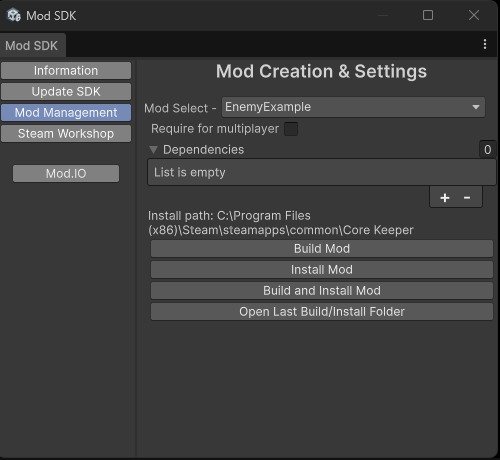
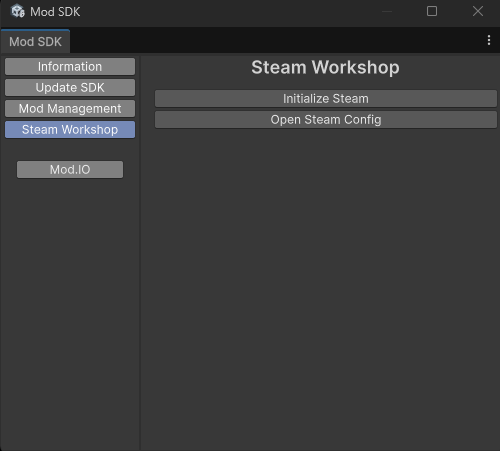
GITBOOK-35: No subject

diff --git a/modding-documentation/creating-mods/creating-a-mod/creating-mods-via-scriptable-data.md b/modding-documentation/creating-mods/creating-a-mod/creating-mods-via-scriptable-data.md
@@ -32,7 +32,7 @@ If your mod is older then you can simply do this by heading over to your mods' f
 
 Open up the Scriptable Data Editor Window by going to Window -> Scriptable Data Editor <mark style="color:red;">**(it could be nice QoL for modders to have all the windows they need to work with under the PugMod window)**</mark> once it's open you'll see a dropdown for ScriptableDataBlock types, these types are retrieved from the assemblies that are imported into the ModSDK during the "Updating Game Files" step. Once you've picked a ScriptableDataBlock which you think would be fun to mod you can right click it on the left-hand side in the Scriptable Data Editor Window and click Overload to -> \<YourScriptableDataDirectoryConfig>.&#x20;
 
-<figure><img src="../../.gitbook/assets/image (1).png" alt=""><figcaption></figcaption></figure>
+<figure><img src="../../.gitbook/assets/image (4).png" alt=""><figcaption></figcaption></figure>
 
 Make sure the config is located in the right mod folder for which you want to build this Scriptable Data mod!
 {% endstep %}
@@ -46,7 +46,7 @@ ScriptableDataBlocks can be edited in the inspector by selecting the instance of
 
 Simply make the changes that you'd like to make to the ScriptableDataBlock and then build the mod. The easiest way to test that you've set up everything correctly and that the Scriptable Data Block mods will work is to assign a new Gradient Map Data Block to a Sprite Asset.
 
-<figure><img src="../../.gitbook/assets/image (2).png" alt=""><figcaption></figcaption></figure>
+<figure><img src="../../.gitbook/assets/image (2) (1).png" alt=""><figcaption></figcaption></figure>
 
 Then once you've saved the changes and built the mod, you can launch your game and test if the ScriptableDataBlock mod changes are reflected in-game.
 {% endstep %}

diff --git a/modding-documentation/creating-mods/uploading-mods.md b/modding-documentation/creating-mods/uploading-mods.md
@@ -4,11 +4,17 @@
 
 you can upload mods to Steam Workshop, first you will need a Steam account and to make sure Steam is running in the background while you're using the ModSDK, then you will be able to upload your mod by first building it via the `Mod Settings` menu.
 
-<figure><img src="../.gitbook/assets/image.png" alt=""><figcaption></figcaption></figure>
+<figure><img src="../.gitbook/assets/image (3).png" alt=""><figcaption></figcaption></figure>
 
-Then heading over to the `Steam Workshop` tab once your mod has been built. In here you will need to fill out a couple of fields such as `Mod Name`, `Mod Tag`.
+Then heading over to the `Steam Workshop` tab once your mod has been built. In here you will first need to initialize Steam.&#x20;
 
-## Mod.io
+<figure><img src="../.gitbook/assets/image (1).png" alt=""><figcaption></figcaption></figure>
+
+By default if you click on `Initialize Steam` it will initialize Core Keepers' appID, if for some reason you are using a version of Core Keeper which uses a different appID then you can change it by clicking `Open Steam Config` . On the Steam Config there's also an option to enable auto-initialize so that every time you open up the Mod SDK Window it's initialized automatically.&#x20;
+
+<figure><img src="../.gitbook/assets/image (2).png" alt=""><figcaption></figcaption></figure>
+
+Once Core Keepers' steam app has been initialized, you will need to fill out a couple of fields such as Mod Name, Mod Tags, and so on. Once you're ready you may click to upload your mod to Steam Workshop.    &#x20;
 
 you can upload mods to Mod.IO directly from the Core Keeper ModSDK, however you will first need to create a Mod.IO account.
 

diff --git a/modding-documentation/creating-mods/setting-up-the-modding-environment/updating-game-assets.md b/modding-documentation/creating-mods/setting-up-the-modding-environment/updating-game-assets.md
@@ -22,4 +22,4 @@ When Asset Ripper CMD window says `Processing : Finished processing assets` in t
 
 Here I recommend creating a new folder which will be easy to find, once you've created a folder, you may select it and continue by pressing `Export Unity Project`. You will now be able to see all of the game files' being processed by Asset Ripper in the CMD window. Do not close neither the graphical UI nor the CMD window until the process finishes. Once Asset Ripper CMD window says `Export : Finished post-export` you may close Asset Ripper and return to the ModSDK.&#x20;
 
-<figure><img src="../../.gitbook/assets/image (3) (1).png" alt=""><figcaption></figcaption></figure>
+<figure><img src="../../.gitbook/assets/image (3) (1) (1).png" alt=""><figcaption></figcaption></figure>

diff --git a/modding-documentation/creating-mods/setting-up-the-modding-environment/updating-game-files.md b/modding-documentation/creating-mods/setting-up-the-modding-environment/updating-game-files.md
@@ -2,6 +2,6 @@
 
 you can do so by going to the PugMod menu in the Unity Editor and selecting "Open Mod SDK Window", a window will pop up.&#x20;
 
-<figure><img src="../../.gitbook/assets/image (4).png" alt=""><figcaption></figcaption></figure>
+<figure><img src="../../.gitbook/assets/image (4) (1).png" alt=""><figcaption></figcaption></figure>
 
 From there head to the "Find game files" tab and select the path to your Core Keeper Steam install, by default this path will usually be `C:\Program Files (x86)\Steam\steamapps\common\Core Keeper` . Once you've selected the path to the game files you can click "Update Game Files", this will prompt Unity to begin importing assemblies from the game install folder.
